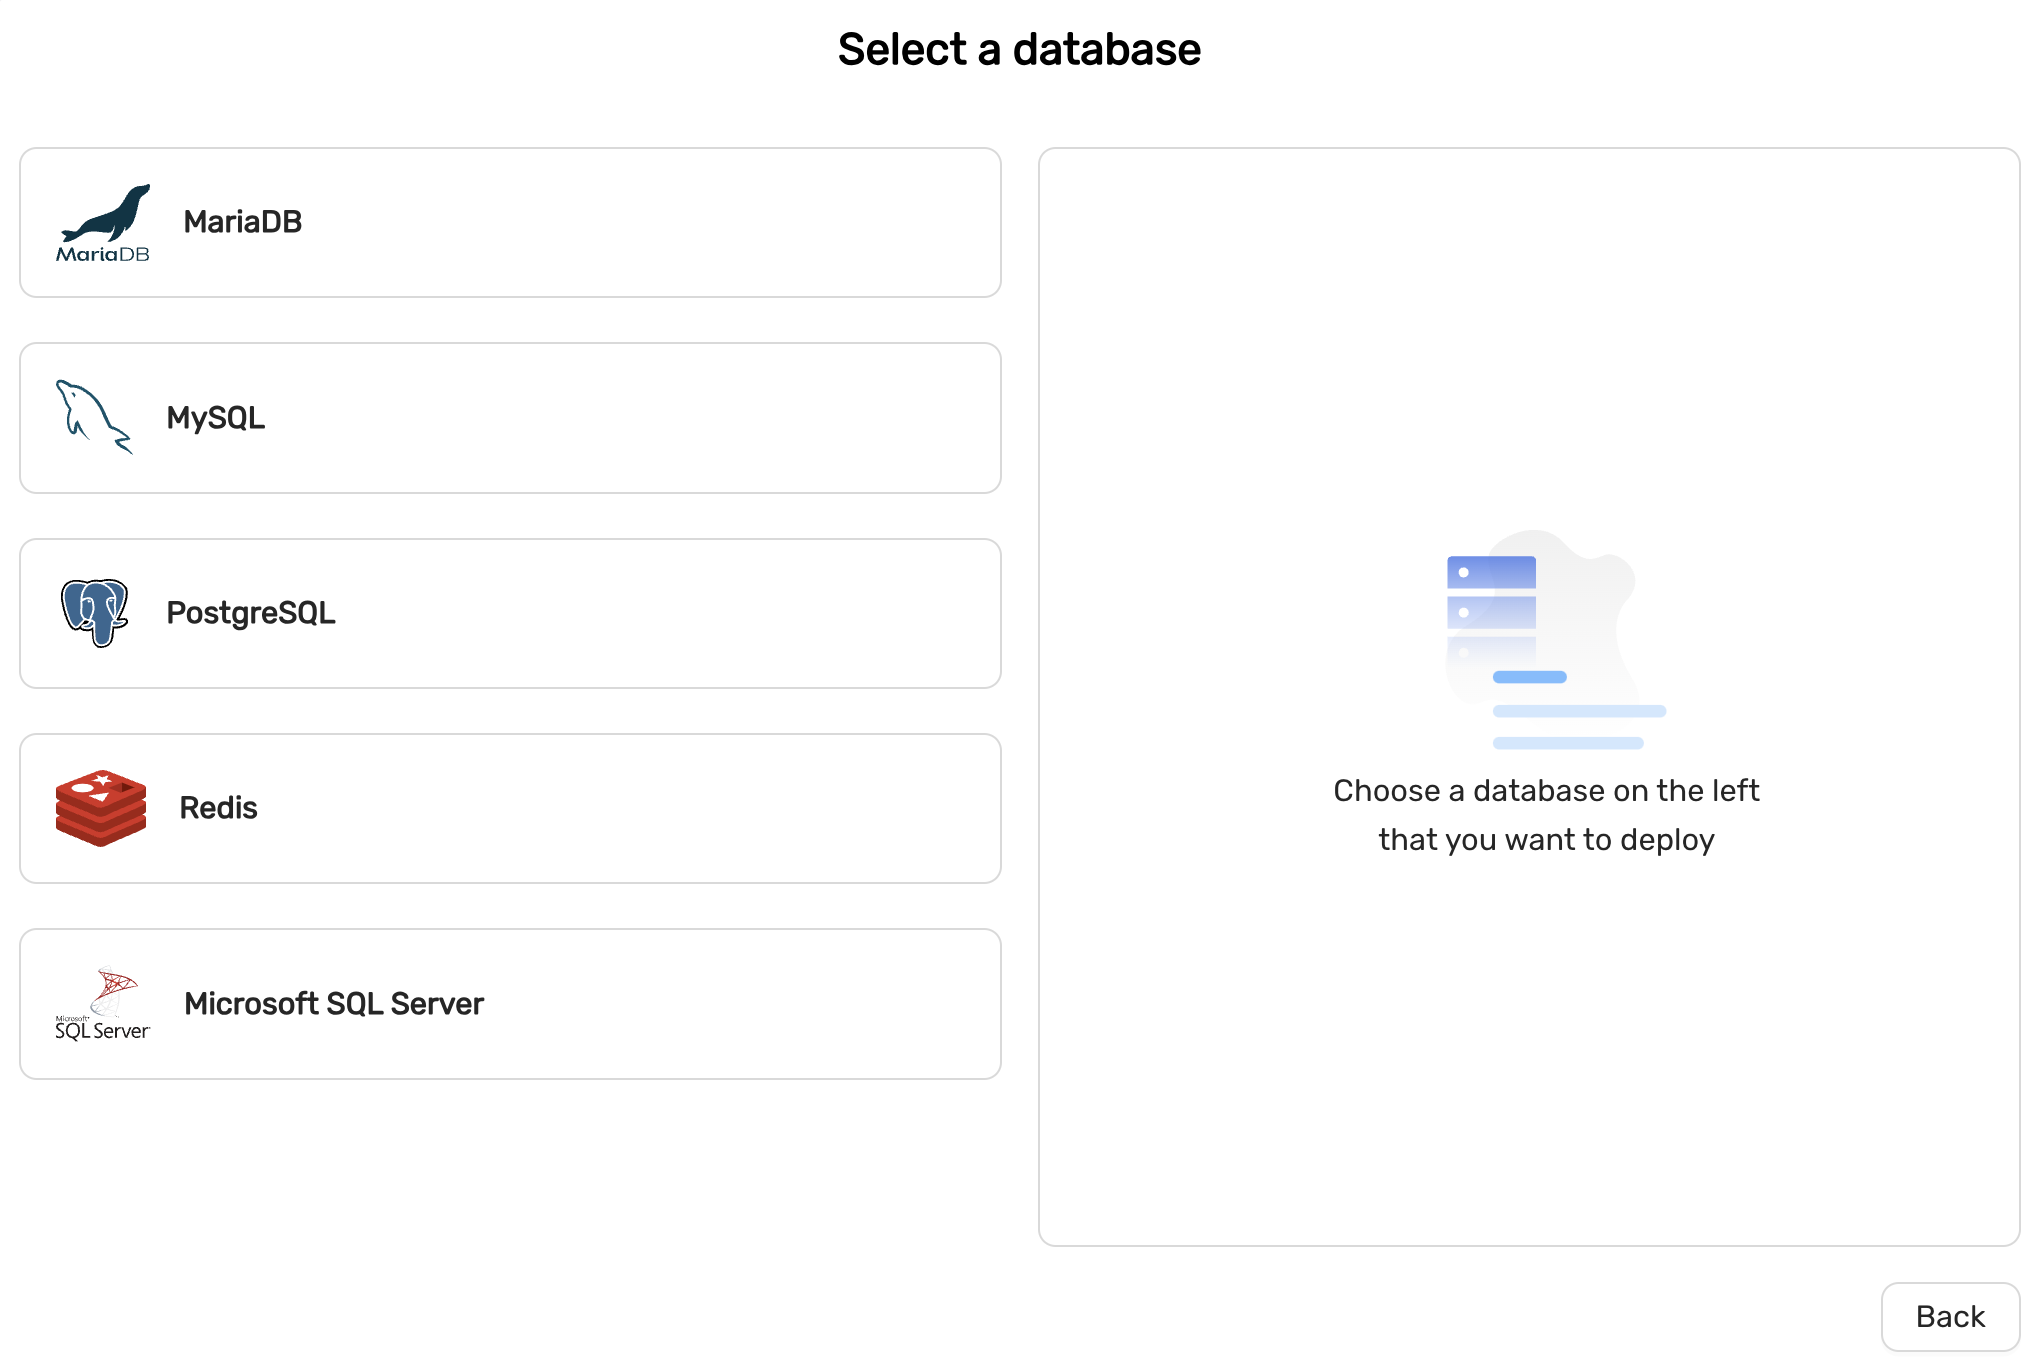
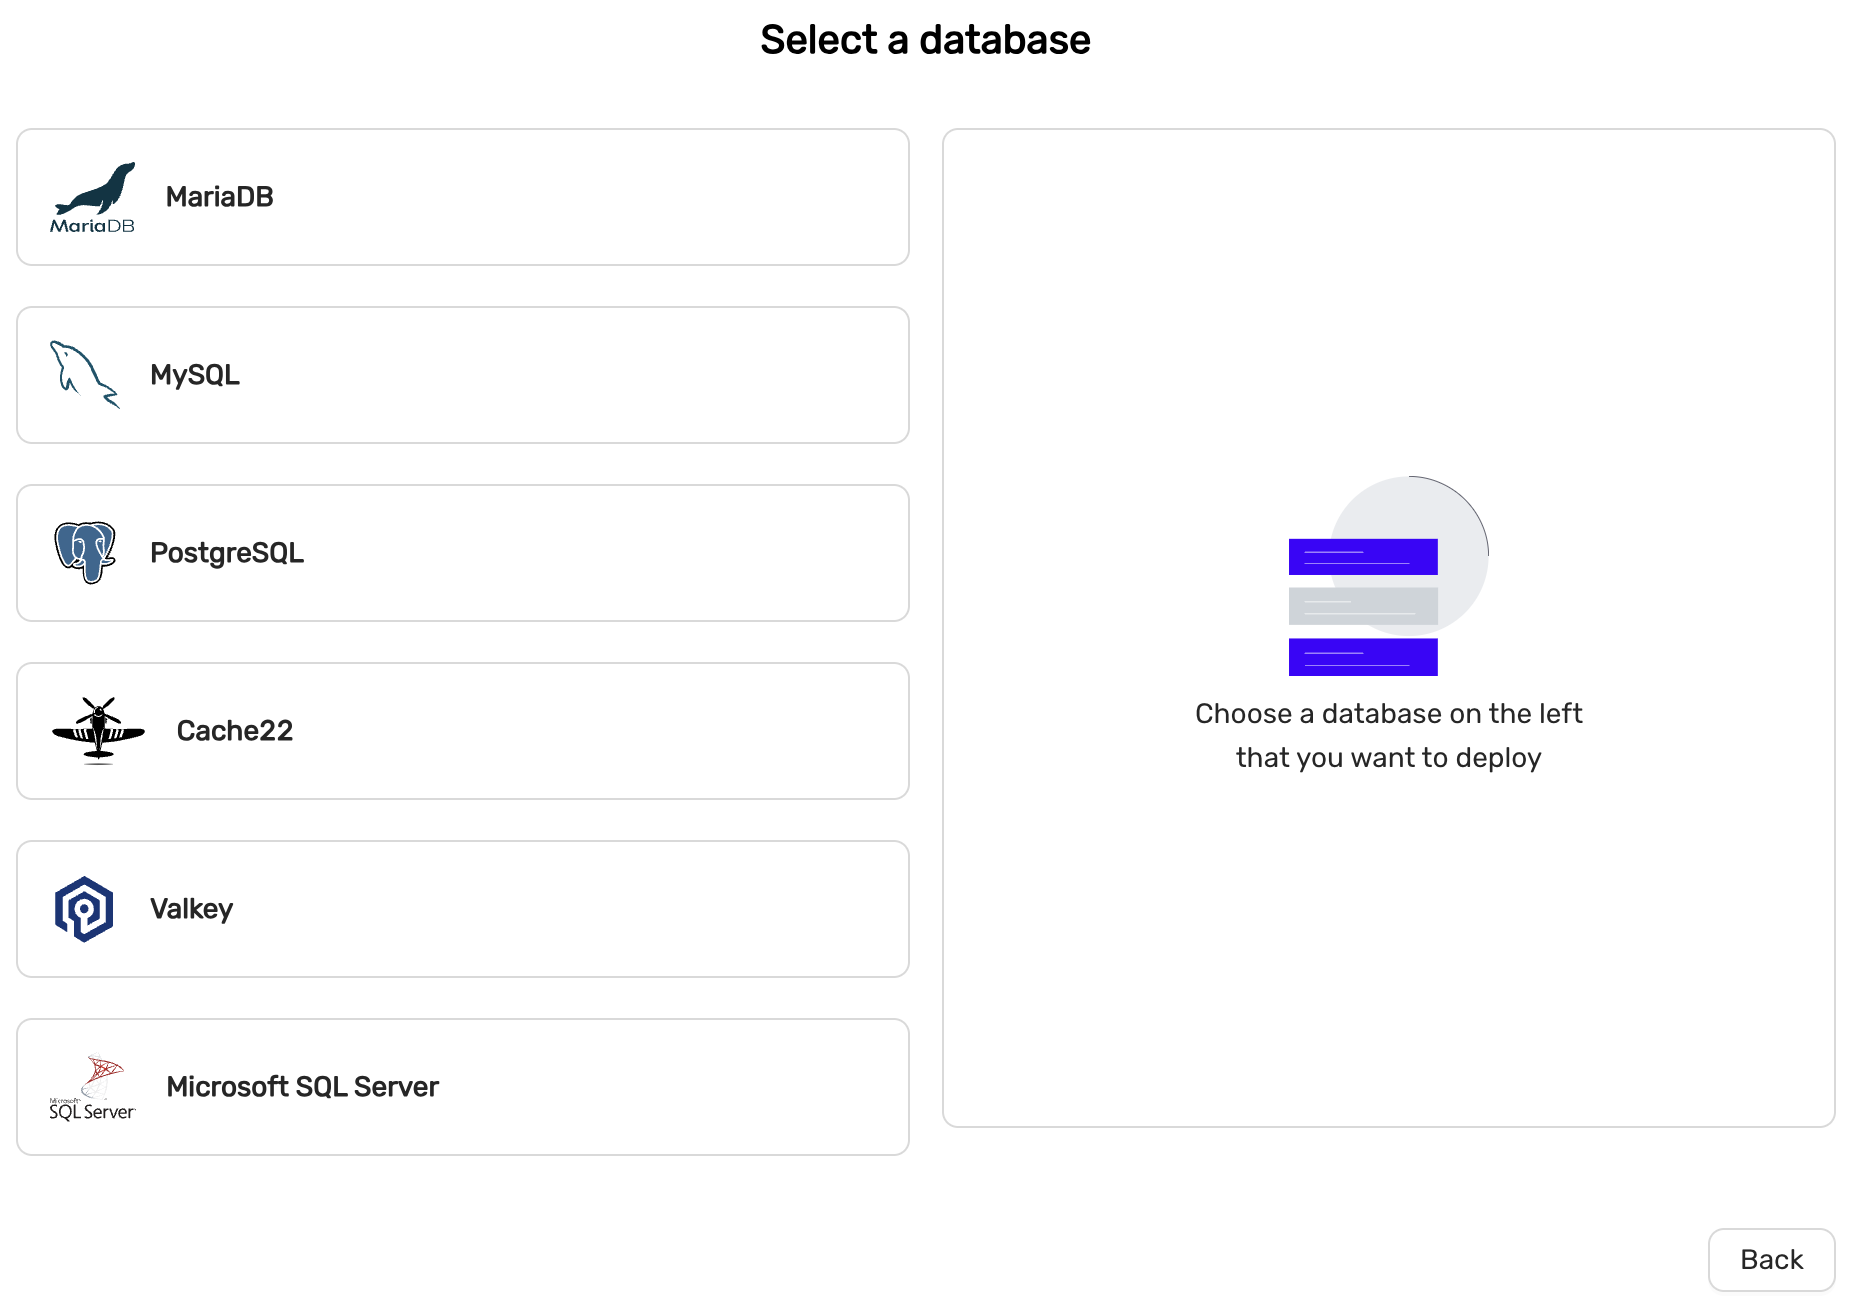
1.53 fixes. More valkey fixes.

diff --git a/docs/user/Howto/Deploy-a-Datastore.md b/docs/user/Howto/Deploy-a-Datastore.md
@@ -3,9 +3,9 @@
 ![img](../images/deploy.png)
 
 ## MySQL or MariaDB
-MySQL 8.0 is recommended for general purpose. 
-MariaDB is recommended if you are migrating from an existing MariaDB system.
-Moreover, MySQL 8.0 offers a more sophisticated privilege system which makes database administration easier.
+MySQL 8.4 is recommended if you are migrating from an existing MySQL system.
+MariaDB 11.4 is recommended if you are migrating from an existing MariaDB system.
+MySQL 8.4 offers a more sophisticated privilege system which makes database administration easier, wheres 
 
 ### High-availability
 MySQL and MariaDB offers two configurations for High-availability.
@@ -27,12 +27,22 @@ High-availability is facilitated with PostgreSQL streaming replication
 ### Scaling
 PostgreSQL can be created with one node (no high-availability) but can later be scaled with read-replicas.
 
-## Redis
-Redis is an in-memory data structure store.
+## Cache22 (aka Redis)
+*deprecated* 
+
+Cache22 is an in-memory data structure store.
 ### High-availability
 High-availability is facilitated with Redis replication and Redis Sentinels.
 ### Scaling
 Redis can be created with one node (no high-availability) but can later be scaled with read-replicas.
+
+
+## Valkey
+Valkey is an in-memory data structure store.
+### High-availability
+High-availability is facilitated with Valkey replication and Valkey Sentinels.
+### Scaling
+Valkey can be created with one node (no high-availability) but can later be scaled with read-replicas.
 
 ## MS SQLServer
 Microsoft SQLServer 2022. Special license restrictions apply and this option may not be available in all CCX implementations.
